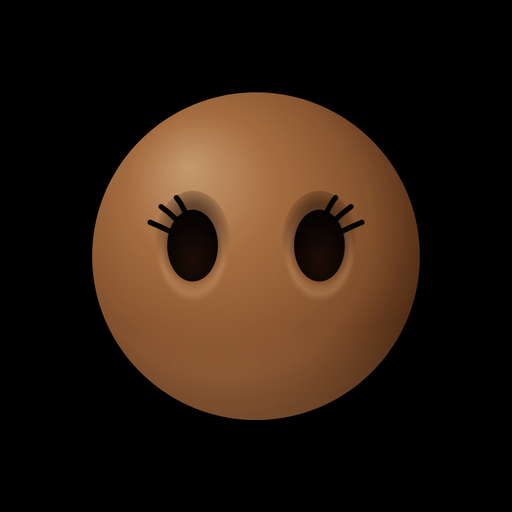
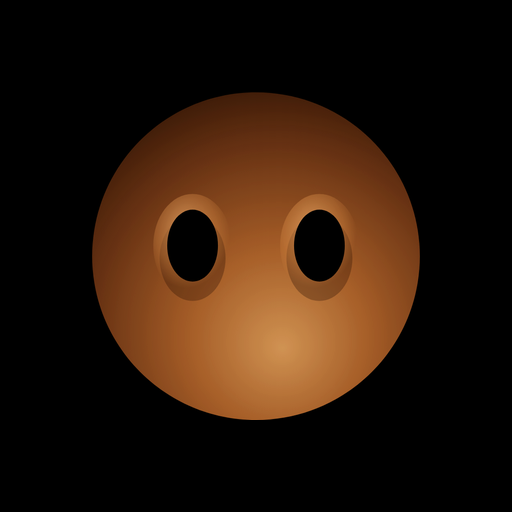
Goccio: the simpler friendly look again, bulging eyes, no earbuds; 'how many hours?' after any bedtime answer (#1156)

Changed region(s): [[0.1562, 0.1562, 0.8438, 0.8438]]

diff --git a/index.html b/index.html
@@ -49,7 +49,7 @@ if (/iP(hone|ad|od)/.test(navigator.userAgent) || (navigator.platform === "MacIn
 <meta name="twitter:description" content="Every new coffee, with its recipe before you buy. Specialty coffees from over 700 roasters, checked every day, each with the recipe for your brewer and grinder: grind, ratio, temperature and every step.">
 <meta name="twitter:image" content="https://www.goccio.co.uk/og/card-8.png">
 <!-- home screen icon: a white G in ALT Riviera on black (iPhone rounds the corners itself) -->
-<link rel="apple-touch-icon" href="/icons/apple-touch-icon.png?v=9">
+<link rel="apple-touch-icon" href="/icons/apple-touch-icon.png?v=10">
 <meta name="apple-mobile-web-app-title" content="Goccio"><meta name="apple-mobile-web-app-capable" content="yes"><meta name="mobile-web-app-capable" content="yes"><meta name="apple-mobile-web-app-status-bar-style" content="black">
 <link rel="manifest" href="/icons/site.webmanifest"><link rel="alternate" type="application/rss+xml" title="Goccio: new coffees" href="https://www.goccio.co.uk/new/feed.xml">
 <link rel="preload" href="/data/latest.json" as="fetch" crossorigin><link rel="preload" href="/fonts/alt-medium.woff2" as="font" type="font/woff2" crossorigin>
@@ -2762,10 +2762,10 @@ html:not(.mine) body #shelves#shelves::after{height:calc(41px + 34px + max(0px, 
 html body .wb-sign .gdrop{position:absolute;left:50%;width:calc(104px * var(--gs, 1));height:calc(97.5px * var(--gs, 1));margin:0 0 0 calc(-52px * var(--gs, 1));bottom:calc(100% - var(--cup-at, 21px) + 1px);color:var(--ink);pointer-events:auto;touch-action:manipulation;-webkit-tap-highlight-color:transparent;cursor:pointer}
 html body .wb-sign .gdrop svg{display:block;width:100%;height:100%;overflow:visible}
 html body .wb-sign .gdrop .gd-b,html body .wb-sign .gdrop .gd-arm{fill:url(#gdFill)}   /* a drop of V60 coffee: amber where the light comes through, brown at the edges, a little see-through */   /* the one accent: a drop of the orange, with black eyes in both looks */
-html body .wb-sign .gdrop .gd-e{fill:url(#gdEye)} html body .wb-sign .gdrop .gd-so,html body .wb-sign .gdrop .gd-rim{pointer-events:none}
-html body .wb-sign .gdrop .gd-umb{opacity:0;pointer-events:none} html body .wb-sign .gdrop .gu-can{fill:url(#guCan)} html body .wb-sign .gdrop .gu-rib{fill:none;stroke:#8a2a04;stroke-width:.45;opacity:.45}
+html body .wb-sign .gdrop .gd-e{fill:#000} html body .wb-sign .gdrop .gd-bs{fill:#2a1004;opacity:.32} html body .wb-sign .gdrop .gd-bu,html body .wb-sign .gdrop .gd-bs{pointer-events:none}
+html body .wb-sign .gdrop .gd-umb{opacity:0;pointer-events:none} html body .wb-sign .gdrop .gu-can{fill:var(--hl)} html body .wb-sign .gdrop .gu-rib{fill:none;stroke:#8a2a04;stroke-width:.45;opacity:.45}
 html body .wb-sign .gdrop .gu-shaft,html body .wb-sign .gdrop .gu-tip{fill:none;stroke:#3a3a3e;stroke-width:.9;stroke-linecap:round} html body .wb-sign .gdrop .gu-hook{fill:none;stroke:#1d1d20;stroke-width:1.3;stroke-linecap:round}
-html body .wb-sign .gdrop .gu-rain line{stroke:#9fc7ff;stroke-width:.45;stroke-linecap:round;opacity:.7}   /* rain: an orange umbrella held out over its head, drops streaking past */ html body .wb-sign .gdrop .gd-ao,html body .wb-sign .gdrop .gd-bn,html body .wb-sign .gdrop .gd-sh{pointer-events:none}   /* soft 3D, like a little clay toy: solid body lit from the top left, shaded at its edge, warm light bouncing up underneath, a soft shadow below */
+html body .wb-sign .gdrop .gu-rain line{stroke:#9fc7ff;stroke-width:.45;stroke-linecap:round;opacity:.7}   /* rain: an orange umbrella held out over its head, drops streaking past */
 html body .wb-sign .gdrop .gd-h{display:none}   /* no reflections on it: a plain drop */
 
 html body .wb-sign .gdrop .gd-s{fill:var(--hl)}
@@ -2824,8 +2824,8 @@ html body .wb-sign .gd-hint{white-space:normal!important;width:max-content;max-w
 html body .wb-sign .gdrop .gd-puff{fill:var(--muted);opacity:0;transform-box:fill-box;transform-origin:center;animation:gdpuff 1.2s ease-out forwards}
 @keyframes gdpuff{from{opacity:.75;transform:scale(.4)}to{opacity:0;transform:scale(1.8) translate(0,-6px)}}
 html body .wb-sign .gdrop{-webkit-user-select:none;user-select:none;-webkit-touch-callout:none}
-html body .wb-sign .gdrop .gd-pod .pd-d{fill:url(#gdPod)}   /* little soft 3D earbuds, each with a soft shadow on the body */
-html body .wb-sign .gdrop .gd-fone{opacity:0} html body .wb-sign .gdrop .gd-fone-b{fill:url(#gdFoneG);stroke:#4a4a4f;stroke-width:.35} html body .wb-sign .gdrop .gd-fone-cam{fill:#1c1c1c;stroke:#333;stroke-width:.25} html body .wb-sign .gdrop .gd-fone-l{fill:#050505;stroke:#3d3d3d;stroke-width:.25} html body .wb-sign .gdrop .gd-fone-f{fill:#6b6b6b} html body .wb-sign .gdrop .gd-fone-sh{fill:#fff}   /* a black phone, back to you: camera block and a soft sheen */
+html body .wb-sign .gdrop .gd-pod .pd-d{fill:#f4f4f2}   /* little soft 3D earbuds, each with a soft shadow on the body */
+html body .wb-sign .gdrop .gd-fone{opacity:0} html body .wb-sign .gdrop .gd-fone-b{fill:#111;stroke:#333;stroke-width:.35} html body .wb-sign .gdrop .gd-fone-cam{fill:#1c1c1c;stroke:#333;stroke-width:.25} html body .wb-sign .gdrop .gd-fone-l{fill:#050505;stroke:#3d3d3d;stroke-width:.25} html body .wb-sign .gdrop .gd-fone-f{fill:#6b6b6b} html body .wb-sign .gdrop .gd-fone-sh{fill:#fff}   /* a black phone, back to you: camera block and a soft sheen */
 html body .wb-sign .gdrop .gd-glow{opacity:0;mix-blend-mode:screen;pointer-events:none} html body .wb-sign .gdrop .gd-e{transition:fill .4s}
 html body .wb-sign .gdrop .gd-note{fill:var(--ink);paint-order:stroke;stroke:#6e3514;stroke-width:.6px;font:600 9px/1 var(--sans);animation:gdnote 1.4s ease-out forwards}
 @keyframes gdnote{from{transform:translate(0,0) scale(.5);opacity:0}20%{opacity:1}to{transform:translate(var(--dx,6px),-24px) scale(1.1);opacity:0}}
@@ -3269,7 +3269,7 @@ html.no-recipe #coffee{min-height:calc(100svh - var(--top-h, 49px) - var(--bot-h
   <form class="ask-line" id="askForm" role="search" autocomplete="off">
     <label for="askIn" class="ask-q">How do you want your coffee today?</label>
     <div class="ask-box"><div class="ask-sug" id="askSug" hidden></div><input type="search" id="askIn" placeholder="Fruity, under £15" enterkeyhint="search" autocomplete="off" autocorrect="off" autocapitalize="off" spellcheck="false"><button type="submit" class="ask-go" aria-label="Find my coffee"><svg class="ask-lens" viewBox="0 0 16 16" aria-hidden="true"><circle cx="7" cy="7" r="4.6" fill="none" stroke="currentColor" stroke-width="1.8"/><path d="M10.4 10.4l3.6 3.6" stroke="currentColor" stroke-width="1.8" stroke-linecap="round"/></svg><svg class="ask-xi" viewBox="0 0 16 16" aria-hidden="true"><path d="M4 4l8 8M12 4l-8 8" stroke="currentColor" stroke-width="1.8" stroke-linecap="round"/></svg></button></div>
-    <button type="button" class="ask-goccio" id="askGoccio" aria-label="Ask Goccio"><svg viewBox="-20 -20 40 40" aria-hidden="true"><defs><radialGradient id="agFill" gradientUnits="userSpaceOnUse" cx="-3" cy="-4" r="20" fx="-7" fy="-9"><stop offset="0" stop-color="#dcab7c" stop-opacity=".92"/><stop offset=".28" stop-color="#b97b49" stop-opacity=".92"/><stop offset=".68" stop-color="#85502b" stop-opacity=".94"/><stop offset="1" stop-color="#4f2a12" stop-opacity=".96"/></radialGradient><radialGradient id="agAO" gradientUnits="userSpaceOnUse" cx="-2" cy="-2" r="16"><stop offset=".72" stop-color="#140600" stop-opacity="0"/><stop offset="1" stop-color="#140600" stop-opacity=".45"/></radialGradient></defs><g class="ag-b"><circle r="15" fill="url(#agFill)"/><circle r="15" fill="url(#agAO)"/><g class="ag-e"><ellipse cx="-5" cy="-1" rx="2.3" ry="3.2"/><ellipse cx="5" cy="-1" rx="2.3" ry="3.2"/></g></g></svg></button>
+    <button type="button" class="ask-goccio" id="askGoccio" aria-label="Ask Goccio"><svg viewBox="-20 -20 40 40" aria-hidden="true"><defs><radialGradient id="agFill" gradientUnits="userSpaceOnUse" cx="1.5" cy="4" r="17"><stop offset="0" stop-color="#e3a05a"/><stop offset=".45" stop-color="#b8682c"/><stop offset=".85" stop-color="#6e3514"/><stop offset="1" stop-color="#3f1c08"/></radialGradient></defs><g class="ag-b"><circle r="15" fill="url(#agFill)"/><g class="ag-e"><ellipse cx="-5" cy="-1" rx="2.3" ry="3.2"/><ellipse cx="5" cy="-1" rx="2.3" ry="3.2"/></g></g></svg></button>
   </form>
   <div class="sec-list" id="secList" inert aria-hidden="true"><div class="sec-list-in"><button type="button" class="sec-p" data-jump="shelves" data-sec="shelves">Coffees</button><button type="button" class="sec-p" data-jump="bags" data-sec="bags">My bags</button><button type="button" class="sec-p" data-jump="coffee" data-sec="coffee">What’s brewing?</button><button type="button" class="sec-p" data-jump="recipe" data-sec="recipe">Recipe</button><button type="button" class="sec-p" data-jump="journal" data-sec="journal">Journal</button></div></div>
 </header>
@@ -3388,7 +3388,7 @@ html.no-recipe #coffee{min-height:calc(100svh - var(--top-h, 49px) - var(--bot-h
       </details>
       <input type="file" accept="image/*" capture="environment" id="roastPhotoIn" hidden>
     </div>
-    <p class="wb-sign"><span class="gdrop" id="gdrop" role="button" tabindex="0" aria-label="Ask Goccio about coffee" aria-expanded="false"><svg viewBox="-32 -56 64 60" aria-hidden="true"><defs><radialGradient id="gdFill" gradientUnits="userSpaceOnUse" cx="-2" cy="-17" r="24" fx="-6.5" fy="-24"><stop offset="0" stop-color="#dcab7c" stop-opacity=".9"/><stop offset=".28" stop-color="#b97b49" stop-opacity=".9"/><stop offset=".68" stop-color="#85502b" stop-opacity=".92"/><stop offset="1" stop-color="#4f2a12" stop-opacity=".95"/></radialGradient><radialGradient id="gdAO" gradientUnits="userSpaceOnUse" cx="-3" cy="-18" r="20"><stop offset=".7" stop-color="#140600" stop-opacity="0"/><stop offset="1" stop-color="#140600" stop-opacity=".32"/></radialGradient><linearGradient id="gdBnc" gradientUnits="userSpaceOnUse" x1="0" y1="-9" x2="0" y2="0"><stop offset="0" stop-color="#e3a974" stop-opacity="0"/><stop offset="1" stop-color="#e3a974" stop-opacity=".2"/></linearGradient><radialGradient id="gdEye" cx=".5" cy=".7" r=".75"><stop offset="0" stop-color="#1d0d05"/><stop offset="1" stop-color="#000"/></radialGradient><linearGradient id="guCan" x1="0" y1="0" x2="0" y2="1"><stop offset="0" stop-color="#ff8a4a"/><stop offset=".6" stop-color="#ff5a14"/><stop offset="1" stop-color="#c94008"/></linearGradient><radialGradient id="gdSock" cx=".5" cy=".42" r=".5"><stop offset=".55" stop-color="#1a0802" stop-opacity=".55"/><stop offset="1" stop-color="#1a0802" stop-opacity="0"/></radialGradient><radialGradient id="gdRim" cx=".5" cy=".5" r=".5"><stop offset=".6" stop-color="#f0c296" stop-opacity="0"/><stop offset=".85" stop-color="#f0c296" stop-opacity=".22"/><stop offset="1" stop-color="#e8b384" stop-opacity="0"/></radialGradient><radialGradient id="gdPod" cx=".35" cy=".3" r=".8"><stop offset="0" stop-color="#ffffff"/><stop offset=".55" stop-color="#eeeef1"/><stop offset="1" stop-color="#b9b9c3"/></radialGradient><linearGradient id="gdFoneG" x1="0" y1="0" x2="1" y2="1"><stop offset="0" stop-color="#3a3a3e"/><stop offset=".5" stop-color="#18181a"/><stop offset="1" stop-color="#050505"/></linearGradient><radialGradient id="gdShadow"><stop offset="0" stop-color="#000" stop-opacity=".45"/><stop offset="1" stop-color="#000" stop-opacity="0"/></radialGradient><radialGradient id="gdBlush"><stop offset="0" stop-color="#ff7a8f" stop-opacity=".95"/><stop offset=".45" stop-color="#f2557a" stop-opacity=".55"/><stop offset="1" stop-color="#e0446c" stop-opacity="0"/></radialGradient><radialGradient id="gdGlow"><stop offset="0" stop-color="#bfe3ff" stop-opacity=".55"/><stop offset="1" stop-color="#bfe3ff" stop-opacity="0"/></radialGradient></defs><g class="gd-all"><path class="gd-arm" d=""/><path class="gd-arm" d=""/><ellipse class="gd-sh" cx="0" cy=".6" rx="13" ry="2.4" fill="url(#gdShadow)"/><g class="gd-umb"><g class="gu-rain"><line x1="-22" y1="0" x2="-22.6" y2="2.6"><animateTransform attributeName="transform" type="translate" values="0 -62;-3 -28" dur="0.9s" begin="0s" repeatCount="indefinite"/></line><line x1="-15" y1="0" x2="-15.6" y2="2.6"><animateTransform attributeName="transform" type="translate" values="0 -66;-3 -32" dur="1.0s" begin="0.3s" repeatCount="indefinite"/></line><line x1="-8" y1="0" x2="-8.6" y2="2.6"><animateTransform attributeName="transform" type="translate" values="0 -64;-3 -30" dur="0.85s" begin="0.55s" repeatCount="indefinite"/></line><line x1="2" y1="0" x2="1.4" y2="2.6"><animateTransform attributeName="transform" type="translate" values="0 -68;-3 -34" dur="0.95s" begin="0.15s" repeatCount="indefinite"/></line><line x1="12" y1="0" x2="11.4" y2="2.6"><animateTransform attributeName="transform" type="translate" values="0 -63;-3 -29" dur="0.9s" begin="0.45s" repeatCount="indefinite"/></line><line x1="22" y1="0" x2="21.4" y2="2.6"><animateTransform attributeName="transform" type="translate" values="0 -66;-3 -32" dur="1.05s" begin="0.7s" repeatCount="indefinite"/></line><line x1="28" y1="0" x2="27.4" y2="2.6"><animateTransform attributeName="transform" type="translate" values="0 -61;-3 -27" dur="0.8s" begin="0.25s" repeatCount="indefinite"/></line><line x1="-27" y1="0" x2="-27.6" y2="2.6"><animateTransform attributeName="transform" type="translate" values="0 -60;-3 -26" dur="0.95s" begin="0.6s" repeatCount="indefinite"/></line></g><g class="gu-u" transform="rotate(-21 19 -15)"><path class="gu-shaft" d="M 19 -15 L 19 -53"/><path class="gu-hook" d="M 19 -15 L 19 -11.5 Q 19 -8.6 16.6 -8.6 Q 14.6 -8.6 14.6 -10.6"/><path class="gu-can" d="M -4 -36 Q -3 -54.5 19 -55.5 Q 41 -54.5 42 -36 Q 36.25 -39.5 30.5 -36 Q 24.75 -39.5 19 -36 Q 13.25 -39.5 7.5 -36 Q 1.75 -39.5 -4 -36 Z"/><path class="gu-rib" d="M 19 -55.5 Q 8 -49 7.5 -36 M 19 -55.5 L 19 -36 M 19 -55.5 Q 30 -49 30.5 -36"/><path class="gu-tip" d="M 19 -55.5 L 19 -58.2"/></g></g><path class="gd-b" d=""/><path class="gd-ao" d="" fill="url(#gdAO)"/><path class="gd-bn" d="" fill="url(#gdBnc)"/><path class="gd-butt" d=""/><ellipse class="gd-h" cx="0" cy="0" rx="3.4" ry="1.9"/><g class="gd-e"><ellipse class="gd-rim l" cx="-6" cy="-11.4" rx="3.4" ry="4.4" fill="url(#gdRim)"/><ellipse class="gd-rim r" cx="6" cy="-11.4" rx="3.4" ry="4.4" fill="url(#gdRim)"/><ellipse class="gd-so l" cx="-6" cy="-12.3" rx="3.6" ry="4.6" fill="url(#gdSock)"/><ellipse class="gd-so r" cx="6" cy="-12.3" rx="3.6" ry="4.6" fill="url(#gdSock)"/><ellipse class="gd-l" cx="-6" cy="-12" rx="2.4" ry="3.4"/><ellipse class="gd-r" cx="6" cy="-12" rx="2.4" ry="3.4"/><path class="gd-a" d="M -8.6 -11 Q -6 -14.6 -3.4 -11"/><path class="gd-a" d="M 3.4 -11 Q 6 -14.6 8.6 -11"/><ellipse class="gd-bl" cx="-8.7" cy="-6.3" rx="3.4" ry="2.3"/><ellipse class="gd-bl" cx="8.7" cy="-6.3" rx="3.4" ry="2.3"/></g><g class="gd-ph"><g class="gd-pod l"><path class="pd-d" d=""/></g><g class="gd-pod r"><path class="pd-d" d=""/></g></g><ellipse class="gd-glow" cx="0" cy="-9" rx="12" ry="9" fill="url(#gdGlow)"/><g class="gd-fone"><rect class="gd-fone-b" x="-4" y="-6" width="8" height="12.5" rx="1.6"/><rect class="gd-fone-cam" x="-3.2" y="-5.2" width="3.3" height="3.3" rx=".9"/><circle class="gd-fone-l" cx="-2.35" cy="-4.35" r=".62"/><circle class="gd-fone-l" cx="-.75" cy="-4.35" r=".62"/><circle class="gd-fone-l" cx="-2.35" cy="-2.75" r=".62"/><circle class="gd-fone-f" cx="-.75" cy="-2.75" r=".3"/><rect class="gd-fone-sh" x="2.4" y="-5.4" width=".55" height="10.8" rx=".27"/></g></g><g class="gd-n"></g></svg></span><span class="gd-hint" id="gdHint" hidden>Hi, I’m Goccio and I answer your coffee questions.</span><span class="gd-talk" id="gdTalk" role="dialog" aria-label="Goccio" hidden><button type="button" class="gd-x" id="gdX" aria-label="Close"><svg viewBox="0 0 16 16" aria-hidden="true"><path d="M4 4l8 8M12 4l-8 8" fill="none" stroke="currentColor" stroke-width="1.8" stroke-linecap="round"/></svg></button><span class="gd-say" id="gdSay" aria-live="polite"></span><span class="gd-chips" id="gdChips"></span><span class="gd-ask"><input id="gdIn" type="text" enterkeyhint="send" autocomplete="off" placeholder="Ask Goccio about coffee" aria-label="Ask Goccio"><button type="button" id="gdMic" aria-label="Ask out loud" hidden><svg viewBox="0 0 16 16" aria-hidden="true"><path d="M2 6.5v3M5 4v8M8 2v12M11 4.5v7M14 6.5v3" fill="none" stroke="currentColor" stroke-width="1.7" stroke-linecap="round"/></svg></button><button type="button" id="gdGo" aria-label="Ask"><svg viewBox="0 0 16 16" aria-hidden="true"><path d="M3 8h10M9 4l4 4-4 4" fill="none" stroke="currentColor" stroke-width="1.8" stroke-linecap="round" stroke-linejoin="round"/></svg></button></span></span>Brew something good.</p>
+    <p class="wb-sign"><span class="gdrop" id="gdrop" role="button" tabindex="0" aria-label="Ask Goccio about coffee" aria-expanded="false"><svg viewBox="-32 -56 64 60" aria-hidden="true"><defs><radialGradient id="gdFill" gradientUnits="userSpaceOnUse" cx="1.8" cy="-9.3" r="22.3" fx="2.5" fy="-6.8"><stop offset="0" stop-color="#e3a05a" stop-opacity=".92"/><stop offset=".38" stop-color="#b8682c" stop-opacity=".9"/><stop offset=".78" stop-color="#6e3514" stop-opacity=".93"/><stop offset="1" stop-color="#3f1c08" stop-opacity=".97"/></radialGradient><radialGradient id="gdBlush"><stop offset="0" stop-color="#ff7a8f" stop-opacity=".95"/><stop offset=".45" stop-color="#f2557a" stop-opacity=".55"/><stop offset="1" stop-color="#e0446c" stop-opacity="0"/></radialGradient><radialGradient id="gdGlow"><stop offset="0" stop-color="#bfe3ff" stop-opacity=".55"/><stop offset="1" stop-color="#bfe3ff" stop-opacity="0"/></radialGradient><radialGradient id="gdBulge" cx=".42" cy=".36" r=".55"><stop offset="0" stop-color="#f3b779" stop-opacity=".75"/><stop offset=".7" stop-color="#d98c46" stop-opacity=".35"/><stop offset="1" stop-color="#d98c46" stop-opacity="0"/></radialGradient></defs><g class="gd-all"><path class="gd-arm" d=""/><path class="gd-arm" d=""/><g class="gd-umb"><g class="gu-rain"><line x1="-22" y1="0" x2="-22.6" y2="2.6"><animateTransform attributeName="transform" type="translate" values="0 -62;-3 -28" dur="0.9s" begin="0s" repeatCount="indefinite"/></line><line x1="-15" y1="0" x2="-15.6" y2="2.6"><animateTransform attributeName="transform" type="translate" values="0 -66;-3 -32" dur="1.0s" begin="0.3s" repeatCount="indefinite"/></line><line x1="-8" y1="0" x2="-8.6" y2="2.6"><animateTransform attributeName="transform" type="translate" values="0 -64;-3 -30" dur="0.85s" begin="0.55s" repeatCount="indefinite"/></line><line x1="2" y1="0" x2="1.4" y2="2.6"><animateTransform attributeName="transform" type="translate" values="0 -68;-3 -34" dur="0.95s" begin="0.15s" repeatCount="indefinite"/></line><line x1="12" y1="0" x2="11.4" y2="2.6"><animateTransform attributeName="transform" type="translate" values="0 -63;-3 -29" dur="0.9s" begin="0.45s" repeatCount="indefinite"/></line><line x1="22" y1="0" x2="21.4" y2="2.6"><animateTransform attributeName="transform" type="translate" values="0 -66;-3 -32" dur="1.05s" begin="0.7s" repeatCount="indefinite"/></line><line x1="28" y1="0" x2="27.4" y2="2.6"><animateTransform attributeName="transform" type="translate" values="0 -61;-3 -27" dur="0.8s" begin="0.25s" repeatCount="indefinite"/></line><line x1="-27" y1="0" x2="-27.6" y2="2.6"><animateTransform attributeName="transform" type="translate" values="0 -60;-3 -26" dur="0.95s" begin="0.6s" repeatCount="indefinite"/></line></g><g class="gu-u" transform="rotate(-21 19 -15)"><path class="gu-shaft" d="M 19 -15 L 19 -53"/><path class="gu-hook" d="M 19 -15 L 19 -11.5 Q 19 -8.6 16.6 -8.6 Q 14.6 -8.6 14.6 -10.6"/><path class="gu-can" d="M -4 -36 Q -3 -54.5 19 -55.5 Q 41 -54.5 42 -36 Q 36.25 -39.5 30.5 -36 Q 24.75 -39.5 19 -36 Q 13.25 -39.5 7.5 -36 Q 1.75 -39.5 -4 -36 Z"/><path class="gu-rib" d="M 19 -55.5 Q 8 -49 7.5 -36 M 19 -55.5 L 19 -36 M 19 -55.5 Q 30 -49 30.5 -36"/><path class="gu-tip" d="M 19 -55.5 L 19 -58.2"/></g></g><path class="gd-b" d=""/><path class="gd-butt" d=""/><ellipse class="gd-h" cx="0" cy="0" rx="3.4" ry="1.9"/><g class="gd-e"><ellipse class="gd-bs l" cx="-6" cy="-11" rx="3" ry="3.8"/><ellipse class="gd-bs r" cx="6" cy="-11" rx="3" ry="3.8"/><ellipse class="gd-bu l" cx="-6" cy="-12" rx="3.6" ry="4.6" fill="url(#gdBulge)"/><ellipse class="gd-bu r" cx="6" cy="-12" rx="3.6" ry="4.6" fill="url(#gdBulge)"/><ellipse class="gd-l" cx="-6" cy="-12" rx="2.4" ry="3.4"/><ellipse class="gd-r" cx="6" cy="-12" rx="2.4" ry="3.4"/><path class="gd-a" d="M -8.6 -11 Q -6 -14.6 -3.4 -11"/><path class="gd-a" d="M 3.4 -11 Q 6 -14.6 8.6 -11"/><ellipse class="gd-bl" cx="-8.7" cy="-6.3" rx="3.4" ry="2.3"/><ellipse class="gd-bl" cx="8.7" cy="-6.3" rx="3.4" ry="2.3"/></g><ellipse class="gd-glow" cx="0" cy="-9" rx="12" ry="9" fill="url(#gdGlow)"/><g class="gd-fone"><rect class="gd-fone-b" x="-4" y="-6" width="8" height="12.5" rx="1.6"/><rect class="gd-fone-cam" x="-3.2" y="-5.2" width="3.3" height="3.3" rx=".9"/><circle class="gd-fone-l" cx="-2.35" cy="-4.35" r=".62"/><circle class="gd-fone-l" cx="-.75" cy="-4.35" r=".62"/><circle class="gd-fone-l" cx="-2.35" cy="-2.75" r=".62"/><circle class="gd-fone-f" cx="-.75" cy="-2.75" r=".3"/><rect class="gd-fone-sh" x="2.4" y="-5.4" width=".55" height="10.8" rx=".27"/></g></g><g class="gd-n"></g></svg></span><span class="gd-hint" id="gdHint" hidden>Hi, I’m Goccio and I answer your coffee questions.</span><span class="gd-talk" id="gdTalk" role="dialog" aria-label="Goccio" hidden><button type="button" class="gd-x" id="gdX" aria-label="Close"><svg viewBox="0 0 16 16" aria-hidden="true"><path d="M4 4l8 8M12 4l-8 8" fill="none" stroke="currentColor" stroke-width="1.8" stroke-linecap="round"/></svg></button><span class="gd-say" id="gdSay" aria-live="polite"></span><span class="gd-chips" id="gdChips"></span><span class="gd-ask"><input id="gdIn" type="text" enterkeyhint="send" autocomplete="off" placeholder="Ask Goccio about coffee" aria-label="Ask Goccio"><button type="button" id="gdMic" aria-label="Ask out loud" hidden><svg viewBox="0 0 16 16" aria-hidden="true"><path d="M2 6.5v3M5 4v8M8 2v12M11 4.5v7M14 6.5v3" fill="none" stroke="currentColor" stroke-width="1.7" stroke-linecap="round"/></svg></button><button type="button" id="gdGo" aria-label="Ask"><svg viewBox="0 0 16 16" aria-hidden="true"><path d="M3 8h10M9 4l4 4-4 4" fill="none" stroke="currentColor" stroke-width="1.8" stroke-linecap="round" stroke-linejoin="round"/></svg></button></span></span>Brew something good.</p>
   </section>
 
   <section class="sec" id="recipe" aria-labelledby="rtitle">
@@ -9967,7 +9967,7 @@ html.no-recipe #coffee{min-height:calc(100svh - var(--top-h, 49px) - var(--bot-h
         const tx = ox + dx * (rx * 0.22 + L), ty = oy + dy * (rx * 0.22 + L), f = (v) => v.toFixed(2);
         return ` M ${f(ox + nx * wb)} ${f(oy + ny * wb)} C ${f(ox + dx * L * 0.55 + nx * (wb * 0.55 + bend))} ${f(oy + dy * L * 0.55 + ny * (wb * 0.55 + bend))} ${f(tx - dx * rt + nx * rt)} ${f(ty - dy * rt + ny * rt)} ${f(tx + nx * rt)} ${f(ty + ny * rt)}`
           + ` Q ${f(tx + dx * rt * 1.5)} ${f(ty + dy * rt * 1.5)} ${f(tx - nx * rt)} ${f(ty - ny * rt)} C ${f(tx - dx * rt - nx * rt)} ${f(ty - dy * rt - ny * rt)} ${f(ox + dx * L * 0.55 - nx * (wb * 0.55 - bend))} ${f(oy + dy * L * 0.55 - ny * (wb * 0.55 - bend))} ${f(ox - nx * wb)} ${f(oy - ny * wb)} Z`; };
-      body.setAttribute("d", d); el.querySelectorAll(".gd-ao,.gd-bn").forEach((p2) => p2.setAttribute("d", d)); { const sh2 = el.querySelector(".gd-sh"); if (sh2) { const lift = Math.max(0, -y - jy); sh2.setAttribute("rx", (rx * 0.85 / (1 + lift / 40)).toFixed(2)); sh2.style.opacity = Math.max(0.2, 1 - lift / 60).toFixed(2); } } const AR = el.querySelectorAll(".gd-arm"); if (AR.length === 2) { AR[0].setAttribute("d", arm(-1, S.armL, S.armLa)); AR[1].setAttribute("d", arm(1, S.armR, S.armRa)); }   /* behind the body, so they flow out of it */
+      body.setAttribute("d", d); const AR = el.querySelectorAll(".gd-arm"); if (AR.length === 2) { AR[0].setAttribute("d", arm(-1, S.armL, S.armLa)); AR[1].setAttribute("d", arm(1, S.armR, S.armRa)); }   /* behind the body, so they flow out of it */
       const cr = el.querySelector(".gd-crease"); if (cr) cr.setAttribute("d", `M ${(cx * 0.9).toFixed(2)} ${(top + ry * 0.22).toFixed(2)} C ${(cx * 0.7 + 3.2).toFixed(2)} ${(top + ry * 0.75).toFixed(2)} ${(cx * 0.3 - 3.2).toFixed(2)} ${(bot - ry * 0.75).toFixed(2)} ${(cx * 0.1).toFixed(2)} ${(bot - ry * 0.22).toFixed(2)}`);   /* the bean's crease, down its middle */
       const hl = el.querySelector(".gd-h"); if (hl) hl.setAttribute("transform", `translate(${(cx * 0.5 - rx * 0.45).toFixed(2)} ${(top + ry * 0.42).toFixed(2)}) rotate(-35)`);
       const tm = ((S.turn % 2) + 2) % 2, back = tm > 0.5 && tm < 1.5; eyes.style.opacity = back ? "0" : "1";   /* turn 0→1 shows its back, 0→2 is a whole spin */
@@ -9986,16 +9986,17 @@ html.no-recipe #coffee{min-height:calc(100svh - var(--top-h, 49px) - var(--bot-h
       const c = Math.max(-1, Math.min(1, S.smile)), lift = c > 0 ? c : 0, sad = c < 0 ? -c : 0;
       L.setAttribute("ry", (parseFloat(L.getAttribute("ry")) * (1 - 0.38 * lift)).toFixed(2)); R.setAttribute("ry", (parseFloat(R.getAttribute("ry")) * (1 - 0.38 * lift)).toFixed(2));
       L.setAttribute("transform", `translate(0 ${(-1.1 * lift + 1.4 * sad - 0.6 * S.happy).toFixed(2)}) rotate(${(-28 * sad).toFixed(1)} -6 -12)`); R.setAttribute("transform", `translate(0 ${(-1.1 * lift + 1.4 * sad - 0.6 * S.happy).toFixed(2)}) rotate(${(28 * sad).toFixed(1)} 6 -12)`);   /* sad: tipped and a little lower */
-      { const sk = (E, sel) => el.querySelectorAll(sel).forEach((o) => { const rx2 = parseFloat(E.getAttribute("rx")), ry2 = Math.max(parseFloat(E.getAttribute("ry")), 0.9), so = o.classList.contains("gd-so");
-          o.setAttribute("rx", (rx2 * (so ? 1.5 : 1.42)).toFixed(2)); o.setAttribute("ry", (ry2 * (so ? 1.35 : 1.3) + 0.3).toFixed(2)); o.setAttribute("transform", E.getAttribute("transform") || ""); });   /* sockets: sunk into the body round each eye */
-        sk(L, ".gd-so.l, .gd-rim.l"); sk(R, ".gd-so.r, .gd-rim.r"); }
+      // bulging eyes: each sits on a soft raised mound lit from above, with a faint shadow under it, so the eyes stand out from the body
+      [[L, -6, ".gd-bu.l", ".gd-bs.l"], [R, 6, ".gd-bu.r", ".gd-bs.r"]].forEach(([E, x0, bu, bs]) => { const rx2 = parseFloat(E.getAttribute("rx")), ry2 = Math.max(parseFloat(E.getAttribute("ry")), 1.1), tf = E.getAttribute("transform") || "";
+        const b1 = el.querySelector(bu), b2 = el.querySelector(bs); if (b1) { b1.setAttribute("rx", (rx2 * 1.55).toFixed(2)); b1.setAttribute("ry", (ry2 * 1.32 + 0.4).toFixed(2)); b1.setAttribute("transform", tf); }
+        if (b2) { b2.setAttribute("rx", (rx2 * 1.3).toFixed(2)); b2.setAttribute("ry", (ry2 * 1.1 + 0.3).toFixed(2)); b2.setAttribute("cy", (-12 + 1.2).toFixed(2)); b2.setAttribute("transform", tf); } });
       // headphones: a band over the top of the head and a cup on each side, at the height of the eyes
       el.querySelectorAll(".gd-bl").forEach((b) => b.style.opacity = (S.blush * 0.95).toFixed(2));
       { const um = el.querySelector(".gd-umb"); if (um) { um.style.opacity = S.umb.toFixed(2); const uu = um.querySelector(".gu-u"); if (uu) uu.setAttribute("transform", `translate(0 ${((1 - S.umb) * -8).toFixed(2)}) rotate(${(-21 + lean * 1.2).toFixed(1)} 19 -15)`); } }
       const sp = el.querySelector(".gd-specs"); if (sp) { sp.style.opacity = S.specs.toFixed(2); sp.setAttribute("transform", `translate(0 ${((1 - S.specs) * -6).toFixed(2)})`); }   /* glasses slide down onto its eyes */
-      const ph = el.querySelector(".gd-ph"); ph.style.opacity = S.phones.toFixed(2);
+      const ph = el.querySelector(".gd-ph"); if (ph) ph.style.opacity = S.phones.toFixed(2);
       // earbuds: a little white bud on each side at the height of its eyes, stems pointing down towards where a mouth would be; they pop in from above
-      if (S.phones > 0.01) { const hh = 2 * R0 * Math.max(0.3, 1 + a), ww = 2 * R0 / Math.sqrt(Math.max(0.3, 1 + a)), lx = lean, cyp = y - hh * 0.52, ex2 = ww / 2 - 0.4, drop = (1 - S.phones) * -8, hide = Math.abs(Math.sin(S.turn * Math.PI));
+      if (S.phones > 0.01 && el.querySelector(".gd-pod")) { const hh = 2 * R0 * Math.max(0.3, 1 + a), ww = 2 * R0 / Math.sqrt(Math.max(0.3, 1 + a)), lx = lean, cyp = y - hh * 0.52, ex2 = ww / 2 - 0.4, drop = (1 - S.phones) * -8, hide = Math.abs(Math.sin(S.turn * Math.PI));
         // each is an ear on the ball: a quarter turn from the face on either side, so when it spins they go round with it, out of sight behind it and back
         const th = S.turn * Math.PI, ex3 = ww / 2; [[".gd-pod.l", -1], [".gd-pod.r", 1]].forEach(([sel, sd]) => { const pe = el.querySelector(sel), an = th + sd * Math.PI / 2, px = ex3 * Math.sin(an), pz = Math.cos(an);
           const out = Math.sin(an) >= 0 ? 1 : -1, prof = Math.abs(Math.sin(an)), k = 2 * (1 - prof), d0 = pe.querySelector(".pd-d");
@@ -10117,7 +10118,7 @@ html.no-recipe #coffee{min-height:calc(100svh - var(--top-h, 49px) - var(--bot-h
     let dancing = false;
     // dancing: no notes, just moves, on a 120 bpm beat. A bounce, a spin, side steps, a spin the other way, pumps, a jump with a double spin
     const spin = (turns, ms) => { const to = S.turn + 2 * turns; return tween("turn", to, ms).then(() => { S.turn = 0; draw(); }); };
-    const dance = () => act(async () => { dancing = true; el.classList.add("gd-disco-on"); await face({ phones: 1 }, 380); for (let b = 0; b < 2; b++) { tween("aRest", 0.1, 160); await wait(250); tween("aRest", -0.06, 160); await wait(250); } tween("aRest", 0, 120);
+    const dance = () => act(async () => { dancing = true; el.classList.add("gd-disco-on"); for (let b = 0; b < 2; b++) { tween("aRest", 0.1, 160); await wait(250); tween("aRest", -0.06, 160); await wait(250); } tween("aRest", 0, 120);
       const beat = 0; await face({ happy: 1, smile: 1 }, 160); const B = 500;
       for (let b = 0; b < 2; b++) { poke(-2.4); leanTo = b ? 3.5 : -3.5; draw(); await wait(B); }   // bounce, bounce
       jv = -170; go(); await spin(1, B); poke(-2);   // a spin with a little hop
@@ -10125,7 +10126,7 @@ html.no-recipe #coffee{min-height:calc(100svh - var(--top-h, 49px) - var(--bot-h
       await spin(-1, B); poke(-2);   // and back the other way
       for (let b = 0; b < 4; b++) { tween("aRest", b % 2 ? -0.14 : 0.16, 200); leanTo = b % 2 ? -2.5 : 2.5; lookX = b % 2 ? -1.5 : 1.5; draw(); await wait(B / 2); }   // pumps, up and down
       tween("aRest", 0, 160); lookX = 0; jv = -300; go(); await spin(2, 640); poke(-3.2);   // the big finish: a jump with a double spin
-      leanTo = 0; clearInterval(beat); await wait(350); await face({ happy: 0 }, 200); await face({ phones: 0 }, 320); dancing = false; el.classList.remove("gd-disco-on"); });
+      leanTo = 0; clearInterval(beat); await wait(350); await face({ happy: 0 }, 200); dancing = false; el.classList.remove("gd-disco-on"); });
     // follows the pointer with its eyes, wherever it is on the page, no tap needed
     let ptrRaf = 0, specsOn = false;
     addEventListener("pointermove", (e) => { if (still()) return; ptrX = e.clientX; ptrY = e.clientY; ptrT = performance.now();
@@ -10523,7 +10524,6 @@ html.no-recipe #coffee{min-height:calc(100svh - var(--top-h, 49px) - var(--bot-h
         T("A mouth would make me a sip. I'd rather stay a drop.", "Con la bocca sarei un sorso. Preferisco restare una goccia."),
         T("My eyes do all the talking. Look: happy!", "Parlano i miei occhi. Guarda: felice!")]), null, happy)],
       [/^(?!.*\b(scan|app|photo|camera|website|site|page|recipe|how|why|what|which|best|grinder|scale|timer)\b).{0,40}\b(phone|iphone|instagram|tiktok|scroll(ing)?|doomscroll\w*|social media|telefono|cellulare|telefonino)\b/i, () => { say(pick([T("One sec, just checking something…", "Un attimo, controllo una cosa…"), T("Sorry, I was just scrolling coffee pics.", "Scusa, stavo guardando foto di caffè."), T("Hang on, someone posted a latte art swan.", "Aspetta, qualcuno ha postato un cigno di latte art.")]), null); setTimeout(() => { D.free(); D.onPhone(); }, 450); }, true],
-      [/\b(air ?pods|earbuds|earphones|headphones|auricolari|cuffie|cuffiette)\b|listen(ing)? to music|ascolt\w* musica/i, () => { say(T("Pods in. Let's go!", "Auricolari dentro. Si parte!"), null); setTimeout(() => { D.free(); dance(); littleMove("ag-dance"); }, 500); }, true],
       [/\b(umbrella|ombrello|is it raining|it'?s raining|sta piovendo|piove)\b/i, () => { say(pick([T("Never leave home without it.", "Mai uscire senza."), T("Drip, drip. Good thing I'm waterproof. Well, I am water.", "Plic, plic. Per fortuna sono impermeabile. Anzi, sono acqua.")]), null); setTimeout(() => { D.free(); D.umbrella(5200); }, 450); }, true],
       [/\broll\b|rolling|rotola|rotolare|fai una rotolata/i, () => { say(T("Wheee!", "Uiii!"), null); setTimeout(() => { D.free(); D.roll(); littleMove("ag-spin"); }, 450); }, true],
       [/back ?flip|somersault|do a flip|capriola|salto (mortale|all'indietro)/i, () => { say(T("Watch this!", "Guarda qua!"), null); setTimeout(() => { D.free(); D.backflip(); littleMove("ag-flip"); }, 450); }, true],
@@ -10856,7 +10856,7 @@ html.no-recipe #coffee{min-height:calc(100svh - var(--top-h, 49px) - var(--bot-h
         say(h >= 22 || h < 5 ? pick([T(`It's ${t}. Yes, bed! And no more coffee tonight: caffeine stays with you for hours.`, `Sono le ${t}. Sì, a letto! E niente più caffè stasera: la caffeina resta in giro per ore.`), T(`${t}? Bed. I'll keep an eye on the beans. Sleep well.`, `Le ${t}? A letto. Ai chicchi ci penso io. Dormi bene.`)])
           : h >= 20 ? T(`It's ${t}: wind-down time. If you want a cup, make it decaf.`, `Sono le ${t}: è ora di rallentare. Se vuoi una tazza, che sia decaffeinato.`)
           : h < 12 ? T(`At ${t}? The day's only just started. Have a coffee instead.`, `Alle ${t}? La giornata è appena iniziata. Prenditi un caffè.`)
-          : T(`At ${t}? Only for a coffee nap: drink a quick espresso, sleep 20 minutes, and wake as the caffeine kicks in.`, `Alle ${t}? Solo per un pisolino al caffè: un espresso veloce, 20 minuti di sonno, e ti svegli quando la caffeina fa effetto.`), null, () => { D.free(); (h >= 22 || h < 5 ? D.sleepy : D.smile)(); }); }],
+          : T(`At ${t}? Only for a coffee nap: drink a quick espresso, sleep 20 minutes, and wake as the caffeine kicks in.`, `Alle ${t}? Solo per un pisolino al caffè: un espresso veloce, 20 minuti di sonno, e ti svegli quando la caffeina fa effetto.`), null, () => { D.free(); (h >= 22 || h < 5 ? D.sleepy : D.smile)(); }); ctx = { t: "caffeine", at: Date.now() }; }],
       F(/uneven|crater|(coffee|coffee's|the|flat|grounds?|brew) bed\b|\bbed\b.*\b(v60|brew|pour|paper|grounds|flat|swirl)\b|letto (di caff[eè]|piatto)/i, "An uneven bed (a crater, or grounds stuck high on the paper) means uneven extraction. Pour gently in the centre, and give a light swirl at the end so it settles flat.", "Un letto irregolare (un cratere, o caffè rimasto in alto sulla carta) vuol dire estrazione irregolare. Versa piano al centro, e alla fine dai un giro leggero così si appiattisce.", curious),
       F(/muddy|murky|cloudy|silty|torbid|fangos/i, "Muddy, unclear coffee usually means too fine a grind, too many fines, or too much agitation. Grind a little coarser, pour more gently, and use a paper filter.", "Un caffè torbido e confuso di solito vuol dire macinatura troppo fine, troppi fini o troppa agitazione. Macina un po' più grosso, versa più piano e usa un filtro di carta.", curious),
       F(/bleach|white (or|vs) brown (paper|filter)|filtri (bianchi|marroni)/i, "White papers are bleached (usually with oxygen) and taste cleaner. Brown unbleached ones can add a papery taste. Either way, rinse the paper with hot water first.", "I filtri bianchi sono sbiancati (di solito con ossigeno) e sanno più puliti. Quelli marroni non sbiancati possono dare un gusto di carta. In ogni caso, sciacqua la carta con acqua calda prima.", smile),

diff --git a/list/index.html b/list/index.html
@@ -5,7 +5,7 @@
 <meta name="description" content="List your roastery's coffees on Goccio for free: every new coffee in the daily list, a recipe for each one, and a page per coffee for search engines.">
 <link rel="canonical" href="https://www.goccio.co.uk/list/">
 <meta property="og:title" content="Get your roastery listed"><meta property="og:image" content="https://www.goccio.co.uk/og/card-8.png">
-<link rel="icon" type="image/png" sizes="32x32" href="/icons/favicon-32.png?v=3"><link rel="apple-touch-icon" href="/apple-touch-icon.png?v=9"><meta name="apple-mobile-web-app-title" content="Goccio">
+<link rel="icon" type="image/png" sizes="32x32" href="/icons/favicon-32.png?v=3"><link rel="apple-touch-icon" href="/apple-touch-icon.png?v=10"><meta name="apple-mobile-web-app-title" content="Goccio">
 <style>
 :root{--bg:#fff;--ink:#000;--muted:#808080;--rule:#e3e3e3;--line:#a6a6a6;--pill:#e6e6e6;--hl:#ff4f00;
 --sans:"ALT Riviera","Helvetica Neue",Helvetica,Arial,-apple-system,BlinkMacSystemFont,system-ui,sans-serif}

diff --git a/privacy/index.html b/privacy/index.html
@@ -5,7 +5,7 @@
 <meta name="description" content="What Goccio keeps, and where: no accounts, no cookies, no tracking. Everything you save stays on your device; only how a brew tasted is counted, anonymously.">
 <link rel="canonical" href="https://www.goccio.co.uk/privacy/">
 <meta property="og:title" content="Privacy"><meta property="og:image" content="https://www.goccio.co.uk/og/card-8.png">
-<link rel="icon" type="image/png" sizes="32x32" href="/icons/favicon-32.png?v=3"><link rel="apple-touch-icon" href="/apple-touch-icon.png?v=9"><meta name="apple-mobile-web-app-title" content="Goccio">
+<link rel="icon" type="image/png" sizes="32x32" href="/icons/favicon-32.png?v=3"><link rel="apple-touch-icon" href="/apple-touch-icon.png?v=10"><meta name="apple-mobile-web-app-title" content="Goccio">
 <style>
 :root{--bg:#fff;--ink:#000;--muted:#808080;--rule:#e3e3e3;--line:#a6a6a6;--pill:#e6e6e6;--hl:#ff4f00;
 --sans:"ALT Riviera","Helvetica Neue",Helvetica,Arial,-apple-system,BlinkMacSystemFont,system-ui,sans-serif}
